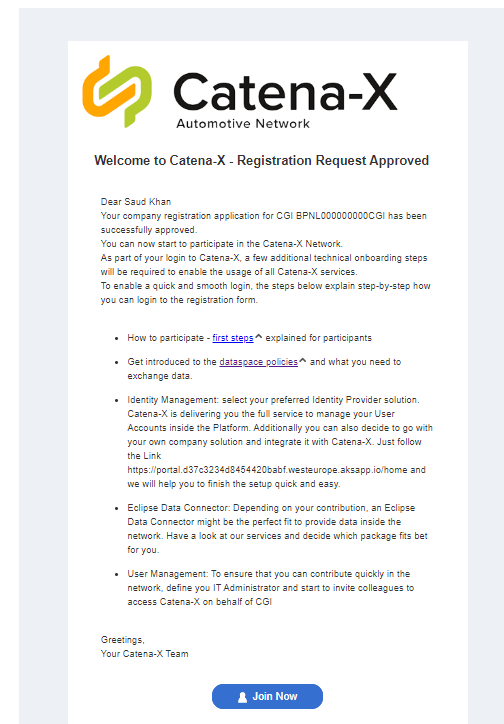
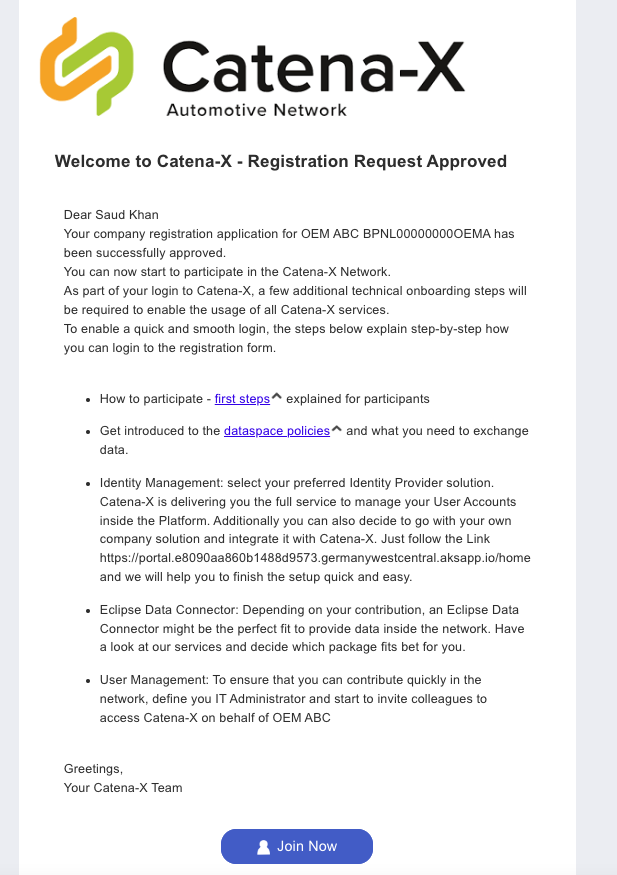
docs: updated onboarding guide and media files

Changed region(s): [[0.0595, 0.0, 0.8631, 0.8508], [0.3571, 0.942, 0.6548, 1.0], [0.0893, 0.8508, 0.3571, 0.9116]]

diff --git a/docs/onboarding/03_Approval.md b/docs/onboarding/03_Approval.md
@@ -14,35 +14,35 @@ This step invloves approval process of a company. It is performed by the dataspa
 
 ![Application Requests Page](./media/approval/application-requests-page.png)
 
+![Application Checklist](./media/approval/application-checklist.png)
+
 - Go to the “Data Validation” check and approve it
 
 ![Data Validation Check](./media/approval/data-validation.png)
 
 After approval, it must be green
 
-![Data Validation Check Green](./media/approval/data-validation-2.png)
+![Data Validation Check Green](./media/approval/data-validation-approved.png)
 
 - Click on pencil symbol and add BPN number manually.
-Example: **BPNL000000000CGI**
+Example: **BPNL00000000OEMA**
 
 ![Add BPN manually](./media/approval/add-bpn.png)
 
-![Add BPN ](./media/approval/add-bpn-2.png)
+![Add BPN ](./media/approval/insert-bpnl.png)
 
-![Checklist Status](./media/approval/checklist-status.png)
-
-- Wait for some seconds until you see all three checks are passed: Data Validation, BPN Creation and Identity Wallet checks. Check by refreshing your page.
+Refresh the web page to reflect the changes in the application checklist status.
 
 ![BPN Creation Check ](./media/approval/checklist-status-2.png)
 
-![Wallet Creation Check](./media/approval/checklist-status-3.png)
+> **Note**
+> For the approval of other steps such as Wallet, BPNL and Membership Credentials, refer to the technical guide [here](./04_Technical_Steps.md).
 
-Since Clearing House and Self Description components are external components, there is currently no ways to get systematic approval from these components. The community is working on a toggle to disable the calls to these components. Currently, there is a workaround to bypass these checks using the SQL queries to be executed in the backend database (See below section Technical Steps to bypass external components).
+> **Note**
+Since the Clearing House and Self Description components are external components, there is currently no way to get systematic approval from these components. The community is working on a toggle to disable the calls to these components. Currently, there is a workaround to bypass these checks using the SQL queries to be executed in the backend database (See below section Technical Steps to bypass external components).
 
 If all checks are passed and registration is approved, the company admin will be notified via email
 
 
-See [technical steps](./04_Technical_Steps.md) to skip the external components
-
-
+See [technical guide](./04_Technical_Steps.md) to skip the external components and get them approved.
 

diff --git a/docs/onboarding/04_Technical_Steps.md b/docs/onboarding/04_Technical_Steps.md
@@ -6,12 +6,12 @@ This guide is used to follow the steps to bypass the external components (Cleari
 ## Steps
 
 * Login to pgAdmin:
-    - url: https://pgadmin4.d37c3234d8454420babf.westeurope.aksapp.io/
+    - url: https://pgadmin4.<YOUR_DNS_ZONE>
     - username: pgadmin4@txtest.org
     - password: tractusxpgdamin4
 
 * Connect a Server
-    - Host: portal-backend-postgresql
+    - Host: fed-services-portal-backend-postgresql
     - Username: postgres
     - Password: dbpasswordportal
     - Port: 5432
@@ -48,15 +48,18 @@ Wait for some minutes (approx. 5 mins) until the **process worker** job gets tri
 
 
 The dataspace operator can see the status as confirmed!
+Wait for the process-worker job to be triggered. Once the job is get executed, it sets the company status as confirmed.
 
-![Operator - Application Requests CONFIRMED ](./media/keycloak/operator-application-requests.png)
+![Operator - Application Requests CONFIRMED ](./media/approval/company-approved.png)
+
+![Operator - Application Requests CONFIRMED ](./media/approval/company-checklist-approved.png)
 
 
 The company admin should recieve a welcome email **Welcome to Catena-X - Registration Request Approved** and should be able to access the Catena-X portal.
 
 ![Welcome Email Dashboard](./media/approval/welcome-email.png)
 
-![Admin Dashboard](./media/keycloak/company%20admin-dashboard.png)
+![Admin Dashboard](./media/approval/company-admin-dashboard.png)
 
 
 ### Sources: 

diff --git a/docs/onboarding/02_Registration.md b/docs/onboarding/02_Registration.md
@@ -24,6 +24,8 @@ Click on **Lets get started**
 
 ![Add Company Data](./media/registration/fill-registration-form.png)
 
+![Add Company Role](./media/registration/company-role.png)
+
 ![Verify Company Data](./media/registration/verify-registration.png)
 
 After submission, you will receive this message.

diff --git a/docs/onboarding/01_Invitation.md b/docs/onboarding/01_Invitation.md
@@ -2,7 +2,7 @@
 
 This guide explains the three simple steps required get a company onboarded in the dataspace environment.
 
-Here is the overiew:
+Here is the overview:
 
 ![General Overview](./media/overview.png)
 
